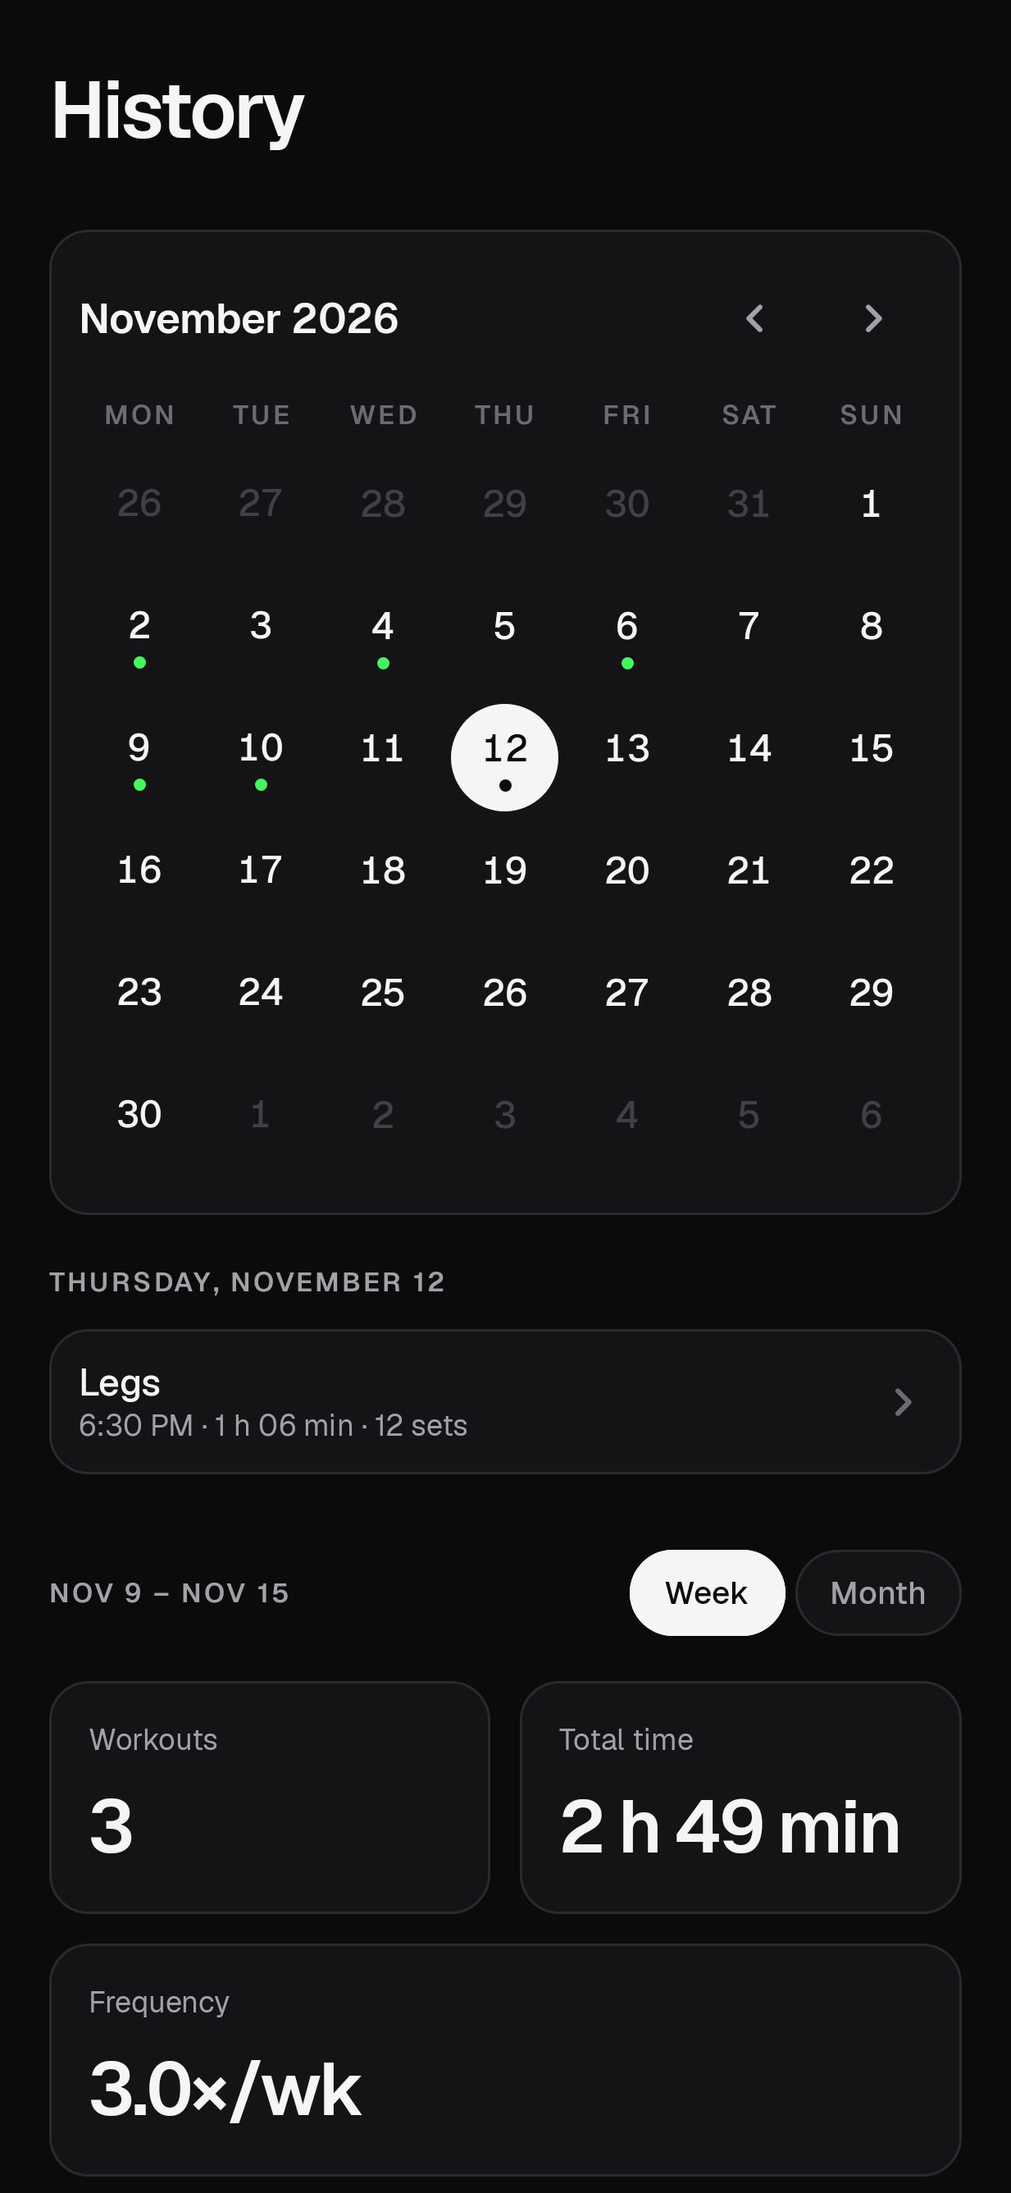
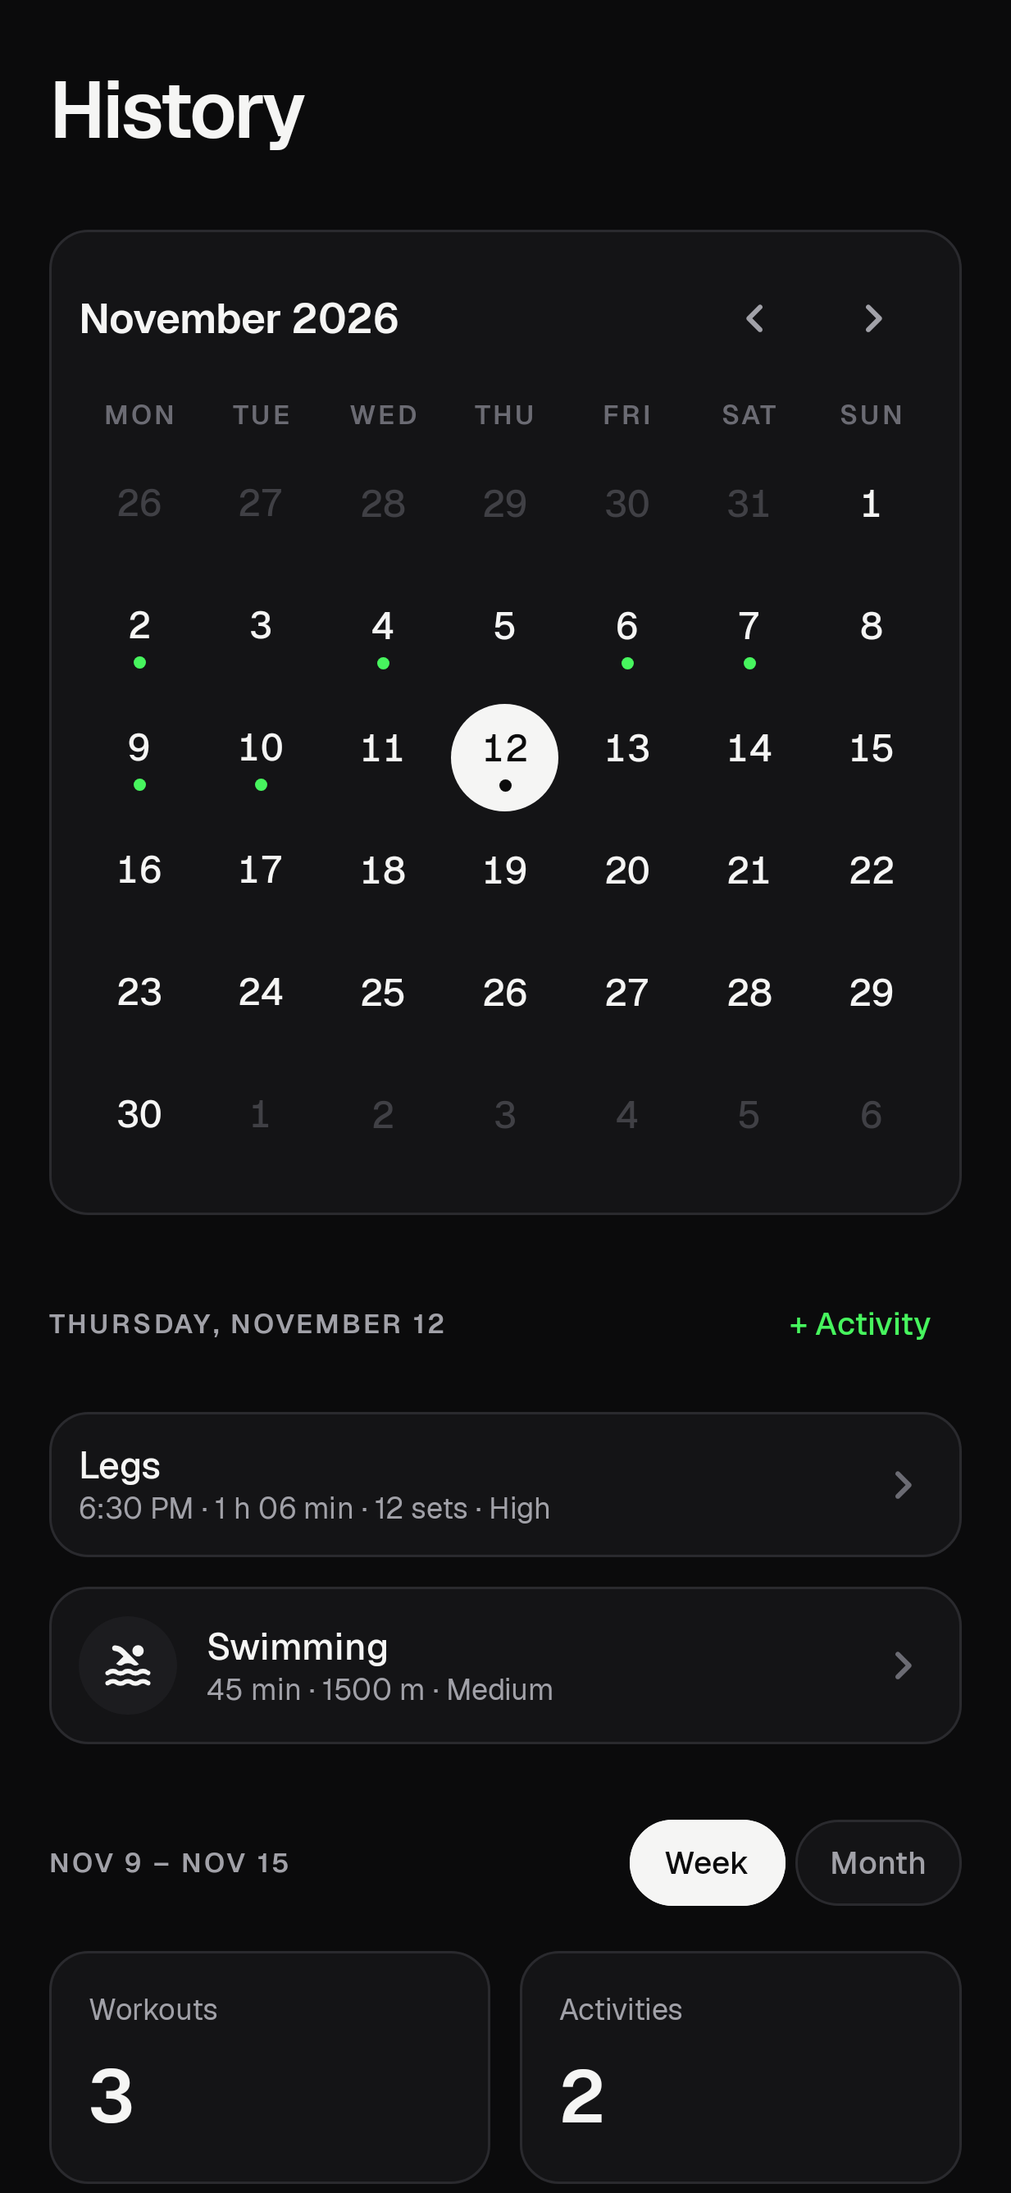
docs: describe sports, intensity, workout photos, reminders and DB v4
Refresh the README screenshots (no waist in highlights, activities in
History, the All chip, reminders in Settings) and add the new screens.

diff --git a/docs/ARCHITECTURE.md b/docs/ARCHITECTURE.md
@@ -20,31 +20,47 @@ Dependency rule: `domain` knows nothing about Android, except for the Tink libra
 | `core/time` | `Mark` (wall clock + monotonic clock + boot counter), `TimeSource` |
 | `core/format` | locale-aware numbers (`DecimalInput`), durations, dates |
 | `domain/session` | `SessionEngine`, `ActiveSession` |
-| `domain/history` | `HistoryCalculator` (summaries, Mon–Sun weeks) |
+| `domain/history` | `HistoryCalculator` (summaries with workouts and activities, Mon–Sun weeks) |
+| `domain/activity` | `Sport`, `Activity` (other sports logged after the fact) |
 | `domain/body` | `Measure`, `BodyComparison` (differences, series, snapshot) |
 | `domain/backup` | v1 DTOs, header and encryption, zip + manifest, retention |
-| `data/db` | entities, DAOs, `MyFitDatabase` (v3), library seed |
-| `data/repository` | workouts, exercises, session, history, body |
+| `data/db` | entities, DAOs, `MyFitDatabase` (v4), `Migrations`, library seed |
+| `data/repository` | workouts, exercises, session, history, activities, body |
 | `data/backup` | `BackupManager`, `BackupKeyStore`, destinations (SAF/file), `FolderBackupWriter` |
 | `platform/session` | `SessionController`, `WorkoutService`, alarm, receivers, notifications |
 | `platform/backup` | `BackupScheduler`, workers, failure notification, image cleanup |
+| `platform/reminder` | reminder alarms, notification, re-arming on start/boot/time change |
 
 ## Data
 
 ```
 exercise ─┐                       workout_session ── session_exercise ── session_set
           └── routine_exercise ── routine        (snapshots: name, group, image, planned/actual)
-body_assessment   body_photo
+body_assessment   body_photo   activity
 ```
 
 - `routine_exercise.exerciseId` uses RESTRICT. An exercise in use is archived instead of deleted.
 - `workout_session.routineId` uses SET NULL, and the session tables keep copies (workout name, exercise name/group/image, targets). Editing or deleting a workout never changes history.
 - `startDateEpochDay` is the local day the session started: a workout that crosses midnight counts on its start day.
-- Images live in `filesDir/images/{exercises,body}/<uuid>.jpg`, downscaled to 1600 px and stripped of EXIF. The database stores only the relative path. Paths that would escape `images/` don't resolve to any file.
+- Images live in `filesDir/images/{exercises,body,sessions}/<uuid>.jpg`, stripped of EXIF: exercise and body photos downscaled to 1600 px (JPEG 85), workout and activity photos to 1280 px (JPEG 80). The database stores only the relative path. Paths that would escape `images/` don't resolve to any file.
 - Schema exported to `app/schemas`. Any change requires a tested migration, because an installed APK already exists.
 - Database version 2 changed no tables: migration 1 → 2 (`ExerciseSeed.MIGRATION_1_2`) only adds the exercises introduced in library version 2, skipping names that already exist in either language, so user-created and deleted exercises are respected.
 - Database version 3 adds `seedKey` to `exercise` (unique) and `session_exercise` (snapshot). Migration 2 → 3 links existing library rows by name (either language; a row the user renamed stays unlinked), copies the key into session snapshots and adds the version-3 exercises. Keys are frozen in `app/src/test/resources/seed-keys.txt`.
-- `MigrationTest` builds real version-1 and version-2 databases from `app/schemas/.../1.json` and `2.json` and opens them with the current app.
+- Database version 4 adds `intensity` and `imagePath` to `workout_session` and the `activity` table (sport, optional name for "free", date, minutes, distance in km, intensity, notes, photo). Migration 3 → 4 (`Migrations.MIGRATION_3_4`) only adds them; existing sessions get no intensity.
+- `MigrationTest` builds real version-1, 2 and 3 databases from `app/schemas/.../<n>.json` and opens them with the current app (`Migrations.ALL`).
+
+## Other sports
+
+- `Activity` is logged after the fact (no live timer): it has no sets, so it lives in its own table and joins workouts only in History and the Home week (`HistoryCalculator.activeDays`, `summarize(..., activities)`).
+- Figures: every `Sport` has a Material icon; indoor cycling and treadmill reuse the Workout Guide drawings (`wg-cycling`, `wg-running`).
+- Distance is stored in km; swimming is typed and shown in meters.
+
+## Reminders
+
+- Stored in DataStore as part of `AppSettings.reminders` (one JSON key), so the backup's `settings.json` carries them; no table.
+- `ReminderSchedule.nextTrigger` (pure) returns the next instant strictly after now: weekly on the chosen days, or once on a date. DST gaps move the time forward.
+- `ReminderScheduler` arms one `AlarmManager` alarm per enabled reminder (exact when allowed). `ReminderSync`, started from `MyFitApp`, re-arms everything whenever the list changes (edits and backup restores); a manifest receiver does it after boot, time or time zone changes and app updates.
+- When it fires, the notification goes out on the "Reminders" channel; a weekly reminder arms its next occurrence and a one-off turns itself off.
 
 ## Exercise pictures
 
@@ -69,7 +85,7 @@ body_assessment   body_photo
 
 **Background**:
 - **Ongoing notification**: a foreground `WorkoutService` of type `health` (the API 34+ requirement is met by `HIGH_SAMPLING_RATE_SENSORS`, a normal permission) shows the system chronometer counting down during rest and counting up for the rest of the workout, with the "Complete set" and "Skip rest" actions. If the user swipes the notification away, it comes back.
-- **Rest end alarm**: uses `AlarmManager.setAlarmClock`, the only exact alarm immune to Doze and One UI optimizations. `RestEndHandler` ignores stale alarms and posts the notification with sound. There are two channels: one follows the phone's ringer mode and the other uses alarm audio and always rings.
+- **Rest end alarm**: uses `AlarmManager.setAlarmClock`, the only exact alarm immune to Doze and One UI optimizations. `RestEndHandler` ignores stale alarms and posts the notification with sound. There are two channels: by default the alert uses alarm audio and always rings, even with the phone on vibrate or silent; the other follows the phone's ringer mode (*Settings → Rest end sound*).
 - **Recovery**: if the process dies, the session remains in the database. When the app returns to the foreground, it calls `resync()`, which re-arms the alarm and the service, and shows the "Resume" bar.
 
 ## Backup
@@ -90,7 +106,7 @@ streaming AES-256-GCM-HKDF (Tink, 1 MiB segments, entire header as associated da
 - **Storage**: the derived key is stored wrapped by an Android Keystore AES key that doesn't require unlocking, so the worker can run with the screen locked. If that key disappears (reinstall or cleared data), the state becomes LOCKED and the app asks for the password again.
 - **Third-party files**: weak parameters from an imported file are never adopted.
 
-Exercise and session DTOs carry an optional `seedKey`; restoring a backup made before version 3 links library rows by name inside the same transaction.
+Exercise and session DTOs carry an optional `seedKey`; restoring a backup made before version 3 links library rows by name inside the same transaction. Session DTOs carry optional `intensity` and `imagePath`, and `activities` is a new optional list. Its count goes into the manifest only when there are activities, so backups made by earlier versions still pass the exact count check.
 
 **Restore** (`BackupManager.restore`):
 1. Refuses if a workout is in progress. Reads the header, gets the key (the device's, or the one derived from the typed password) and checks the verifier.

diff --git a/SPEC.md b/SPEC.md
@@ -77,16 +77,18 @@ MyFit is a single-user app: fast during the workout, 100% local, with encrypted 
 12. MUST follow the flow: complete set (1 tap) → automatic rest → visual and audible alert when it ends → next set → next exercise → finish.
 13. MUST allow pausing/resuming, skipping a set, skipping an exercise, adjusting the set's load and reps, changing the rest (including ±15 s during the rest) and ending early.
 14. MUST keep timers correct with the app in the background, the screen locked, the process killed by the system or after a device restart. Time MUST be derived from persisted timestamps, never from UI counters.
-15. MUST signal the end of rest with a notification with sound and vibration even with the app closed, and show an ongoing workout notification with the timer and quick actions.
+15. MUST signal the end of rest with a notification with sound and vibration even with the app closed (by default the sound plays even with the phone on vibrate), and show an ongoing workout notification with the timer and quick actions.
 16. MUST persist every session step immediately and offer exact resumption when the app is reopened.
 17. When finishing, MUST automatically save: date, start and end time, duration (excluding pauses), workout, exercises, completed/skipped sets, and the reps and loads performed.
 18. SHOULD offer, when finishing, to update the workout's loads with the ones used in the session.
+18a. SHOULD let the user rate the workout's intensity (low, medium, high) and attach a photo (stored reduced) when finishing, both optional and editable later in History.
 
 ### History and calendar
 
 19. MUST show a monthly calendar with workout days highlighted.
+19a. MUST allow logging other sports after the fact (swimming, cycling, indoor cycling, running, treadmill, walking, soccer, volleyball, basketball, beach tennis, muay thai, jiu-jitsu, boxing, yoga, pilates, stretching, or a free activity named by the user), each with a figure, date, duration, optional distance, intensity, notes and photo; they appear in the calendar, the day list, the summaries and the Home week.
 20. When a day is tapped, MUST list its sessions with duration and allow opening the detail (exercises, sets, reps, loads).
-21. MUST show weekly and monthly summaries: number of workouts, total time, average weekly frequency and exercises performed.
+21. MUST show weekly and monthly summaries: number of workouts and activities, total time, average weekly frequency, exercises performed and sports practiced.
 22. History MUST stay intact even if the source workout or exercise is later edited or deleted.
 
 ### Body progress
@@ -94,8 +96,8 @@ MyFit is a single-user app: fast during the workout, 100% local, with encrypted 
 23. MUST allow creating, editing and deleting assessments with date, weight (kg), body fat % (optional) and 14 circumferences in cm (neck, shoulders, chest, waist, abdomen, hips, right/left arms, right/left forearms, right/left thighs, right/left calves), all optional except the date.
 24. MUST list the assessment history.
 25. MUST compare two chosen assessments, showing values and the signed absolute difference per metric.
-26. MUST show progress charts over time for each metric, with selection of the metrics displayed.
-27. MUST allow logging body photos by date (front/side/back), browsing by date and comparing two photos side by side.
+26. MUST show progress charts over time for each metric, with selection of the metrics displayed (including all at once).
+27. MUST allow logging body photos by date (front/side/back), including past dates for older photos, browsing by date and comparing two photos side by side.
 
 ### Backup and data
 
@@ -110,6 +112,7 @@ MyFit is a single-user app: fast during the workout, 100% local, with encrypted 
 ### Settings
 
 35. MUST allow choosing the theme (Dark, default; Light; System), the default rest, the rest sound behavior and keeping the screen on during workouts.
+35a. SHOULD allow scheduling workout reminders (a workout or activity, a time, and either a date or weekly days) that notify at that time.
 36. MUST bring together backup management (folder, password, automatic, manual, restore) and exercise library management.
 37. SHOULD guide the user to remove battery optimization for the app (relevant on Samsung devices).
 

diff --git a/README.md b/README.md
@@ -10,12 +10,13 @@ A personal, offline Android app to plan workouts, run them with a reliable rest 
 
 - **Workouts:** create, edit, duplicate, reorder (drag) and delete exercise sequences, with sets, reps, rest, load and notes per exercise.
 - **Library:** 152 predefined exercises (in the device language), each with a line drawing of the start and end position. Accent-insensitive search, muscle-group filters and custom exercises with a photo from the gallery. A body map highlights the worked muscle group (also the picture of custom exercises without a photo), and *Watch how to do it* opens a video search in YouTube or the browser.
-- **Workout mode:** an immersive screen with sets, automatic rest, ±15 s, pause/resume, skip set or exercise, adjustable load and reps, and a summary before saving.
-- **Reliable timer:** times come from persisted marks (wall clock + monotonic clock + boot count), never from UI counters. An exact alarm ends the rest with sound and vibration even with the screen locked. The ongoing notification has quick actions, and an interrupted session resumes where it stopped.
-- **History:** monthly calendar with training days, per-day sessions, per-set details and weekly/monthly summaries.
-- **Progress:** assessments with weight, body fat and 14 circumferences, comparison between two dates (signed differences), per-measure charts and dated photos with side-by-side comparison.
+- **Workout mode:** an immersive screen with sets, automatic rest, ±15 s, pause/resume, skip set or exercise, adjustable load and reps, and a summary before saving where you rate the intensity (low, medium or high) and can attach a photo (stored reduced).
+- **Reliable timer:** times come from persisted marks (wall clock + monotonic clock + boot count), never from UI counters. An exact alarm ends the rest with sound and vibration even with the screen locked, and by default it rings even with the phone on vibrate. The ongoing notification has quick actions, and an interrupted session resumes where it stopped.
+- **Other sports:** log swimming, cycling, indoor cycling, running, treadmill, walking, soccer, volleyball, basketball, beach tennis, muay thai, jiu-jitsu, boxing, yoga, pilates, stretching or a free activity you name, each with its figure, plus date, duration, distance, intensity, notes and a photo. They show in History and in the week on Home.
+- **History:** monthly calendar with training days, per-day workouts and activities, per-set details, intensity, and weekly/monthly summaries (workouts, activities, total time, frequency, exercises and sports).
+- **Progress:** assessments with weight, body fat and 14 circumferences, comparison between two dates (signed differences), per-measure charts (or *All* at once) and dated photos, including older ones, with side-by-side comparison.
 - **Backup:** an encrypted file (AES-256-GCM streaming, key derived from your recovery password) written to a folder you pick and keep in sync with Google Drive (or any cloud) through a sync app. Runs daily and after changes, keeps the last 7, and supports export and restore with integrity checks.
-- **Settings:** dark (default), light or system theme, default rest, rest sound, keep screen on, notification and battery status.
+- **Settings:** dark (default), light or system theme, default rest, rest sound, workout reminders (date and time, or repeating on weekdays), keep screen on, notification and battery status.
 
 ## Screenshots
 
@@ -36,6 +37,12 @@ A personal, offline Android app to plan workouts, run them with a reliable rest 
   <img src="docs/screenshots/backup_dark.png" width="200" alt="Backup">
   <img src="docs/screenshots/settings_light.png" width="200" alt="Settings (light theme)">
   <img src="docs/screenshots/exercise_editor_dark.png" width="200" alt="Exercise with drawing and body map">
+</p>
+<p>
+  <img src="docs/screenshots/activity_swimming_dark.png" width="200" alt="Logging a sport">
+  <img src="docs/screenshots/activity_indoor_cycling_dark.png" width="200" alt="Indoor cycling with its drawing">
+  <img src="docs/screenshots/session_detail_dark.png" width="200" alt="Session detail with intensity and photo">
+  <img src="docs/screenshots/reminders_dark.png" width="200" alt="Workout reminders">
 </p>
 
 ## Install

diff --git a/docs/TESTING.md b/docs/TESTING.md
@@ -44,24 +44,34 @@ UI labels are quoted in English; on a phone set to Portuguese, the same labels a
 ### 3. Locked screen and background
 - [ ] Complete a set and **lock the screen** during the rest: at the end, the phone rings and vibrates, and the notification shows "Rest complete".
 - [ ] On the lock screen, the notification shows the timer and the "Skip rest" button works.
-- [ ] With the phone on **vibrate**: with *Settings → Rest end sound → Always ring*, the alert rings anyway.
+- [ ] With the phone on **vibrate** and *Settings → Rest end sound → Always ring* (the default): the alert rings anyway, at the alarm volume.
+- [ ] With *Follow phone mode* and the phone on vibrate: the alert only vibrates.
 - [ ] Alarm icon in the status bar during the rest: expected (exact alarm).
 
 ### 4. Recovery
 - [ ] Mid-rest, close the app from recents (swipe it away). Reopen it: Home shows "Workout in progress". "Resume" goes back to the same set and the total time is still correct.
 - [ ] Restart the phone mid-workout. Open the app and resume: the session continues and the total time includes the reboot period.
-- [ ] Finish the workout → summary → keep "Update loads" checked → "Finish and save".
+- [ ] Finish the workout → summary → pick an intensity (Low/Medium/High) and add a photo → keep "Update loads" checked → "Finish and save".
 
 ### 5. History
 - [ ] The day is marked on the calendar. Tapping the day opens the session with sets, reps and loads.
 - [ ] Toggle Week/Month in the summaries. Workouts, total time and frequency match what was done.
+- [ ] The session row shows the intensity; the session detail shows the photo, and intensity and photo can be changed or removed there.
+- [ ] "+ Activity" on a past day: log swimming (distance in m), indoor cycling (drawing at the top) and a "Free" one with your own name. They appear on that day, mark the calendar and count in Activities, Total time and the Sports card. Tap one to edit or delete it.
+- [ ] Home: "Log activity" opens the same screen; the week counts the activity days and their time.
 
 ### 6. Progress
 - [ ] Log two assessments on different dates (edit the date at the top). Weight with a decimal comma.
 - [ ] Compare the two: signed differences (+/−).
-- [ ] Charts: weight and waist appear; change the metrics and the period.
-- [ ] Photos: add two (front), select both → "Compare selected"; delete one.
-- [ ] Home shows weight, body fat and waist with their change.
+- [ ] Charts: weight and waist appear; change the metrics and the period. "All" shows every measure you have logged; tapping it again clears the selection.
+- [ ] Photos: add two (front), one with an older date picked with *Date*, select both → "Compare selected"; delete one.
+- [ ] Home and Measurements show weight and body fat (no waist) with their change.
+
+### 6a. Reminders
+- [ ] *Settings → Reminders → +*: pick a workout, a time 2 minutes ahead and today's weekday. At that time a "Time to work out" notification arrives, even with the screen locked; tapping it opens the app.
+- [ ] A one-off reminder with "Other activity" (tap "Swimming" to fill the name) on a date: it fires once and then shows as off.
+- [ ] Restart the phone: a weekly reminder still fires at its next time.
+- [ ] Turning a reminder's switch off stops it.
 
 ### 7. Backup
 - [ ] *Settings → Backup*: set the recovery password and store it in a password manager.
@@ -76,6 +86,8 @@ UI labels are quoted in English; on a phone set to Portuguese, the same labels a
 ### 8. Update
 - [ ] Install a new version over the existing one (`adb install -r`): the data is kept.
 - [ ] Updating from 1.2: workouts and history are intact, the library gains the new exercises and the existing predefined ones show their drawings (a predefined exercise you renamed keeps no drawing).
+- [ ] Updating from 1.3: history is intact (old sessions have no intensity), and a backup made with 1.3 still restores.
+- [ ] If you had changed any setting before 1.4, check *Settings → Rest end sound*: the new default (Always ring) only applies to settings never saved.
 
 ## Known issues
 - The alarm icon appears in the status bar during the rest (`setAlarmClock`, chosen for its accuracy).
